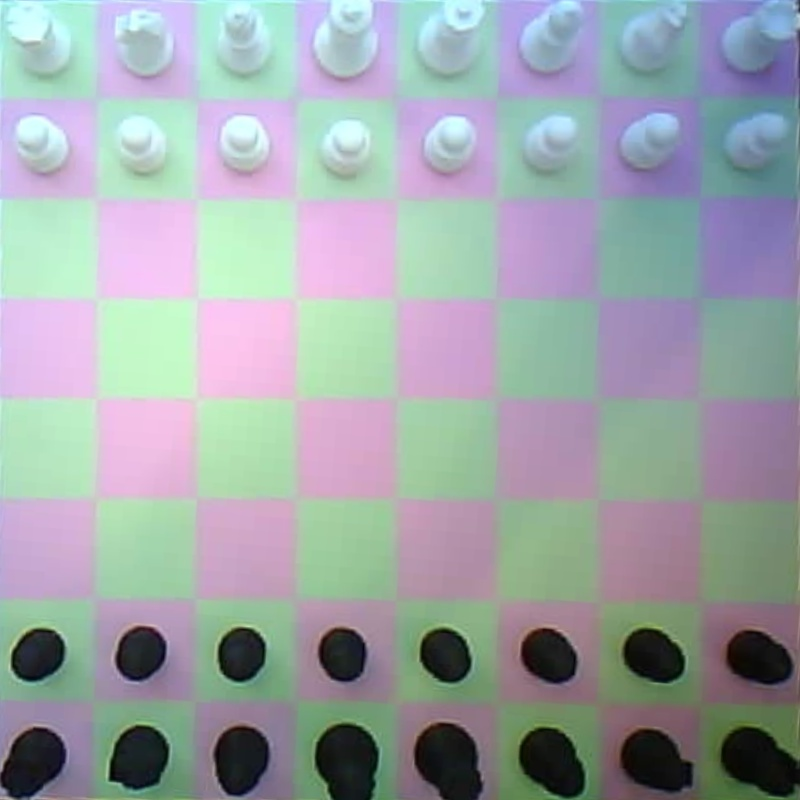
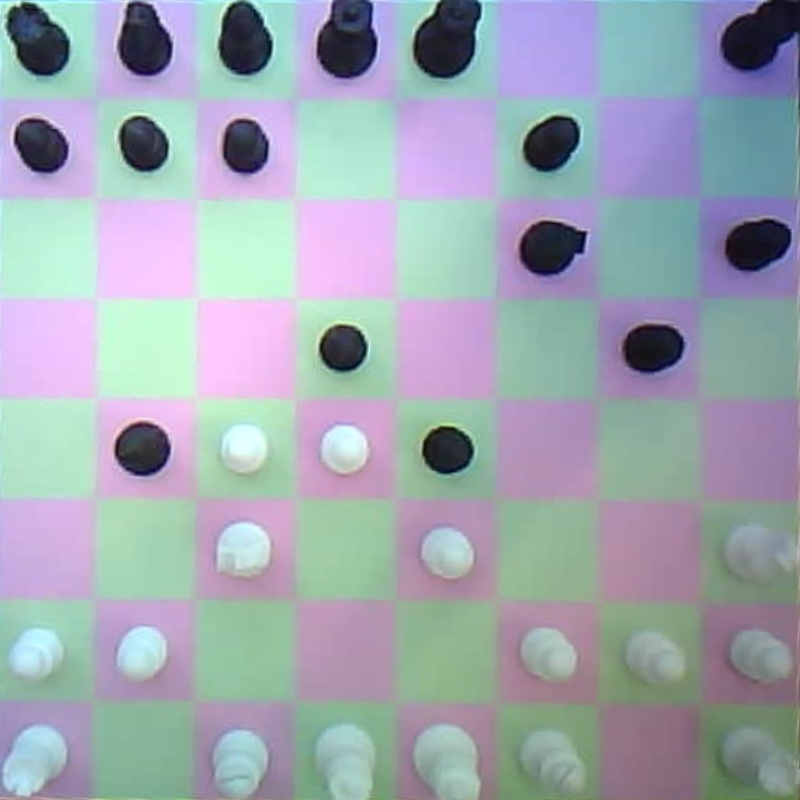
fixed the lcd black and white play

diff --git a/webapp/src/app/page.tsx b/webapp/src/app/page.tsx
@@ -46,6 +46,7 @@ import { Button } from "@/components/ui/button";
 import { Card, CardContent, CardHeader } from "@/components/ui/card";
 import { Badge } from "@/components/ui/badge";
 import { Slider } from "@/components/ui/slider";
+import { Tooltip, TooltipContent, TooltipProvider, TooltipTrigger } from "@/components/ui/tooltip";
 
 const DIFFICULTY_LABELS = ["Easy", "Medium", "Hard"] as const;
 
@@ -351,7 +352,56 @@ const RATING_STYLE: Record<PlayerMoveRating, { color: string; emoji: string }> =
   Blunder: { color: "oklch(0.65 0.22 25)", emoji: "🚨" },
 };
 
-function GameEvaluationCard({ evaluation }: { evaluation: GameEvaluation | null }) {
+// Small hover-explanation affordance. Wraps a metric so hovering it shows a
+// plain-language description of what the number means.
+function InfoTip({
+  text,
+  children,
+  side = "top",
+}: {
+  text: string;
+  children: React.ReactElement;
+  side?: "top" | "bottom" | "left" | "right";
+}) {
+  return (
+    <Tooltip>
+      <TooltipTrigger render={children} />
+      <TooltipContent side={side} className="max-w-xs font-jetbrains">{text}</TooltipContent>
+    </Tooltip>
+  );
+}
+
+// Reconstruct SAN move pairs from the UCI move list. We cannot use
+// game.history() because new Chess(fen) discards history on every poll —
+// instead we replay controllerMoves in a throwaway board (see improvement.md).
+function getHistoryRows(uciMoves: string[]): { num: number; w: string; b?: string }[] {
+  const chess = new Chess();
+  const rows: { num: number; w: string; b?: string }[] = [];
+  for (let i = 0; i < uciMoves.length; i++) {
+    const index = Math.floor(i / 2);
+    let san = uciMoves[i];
+    try {
+      const move = chess.move(uciMoves[i]);
+      san = move.san;
+    } catch {
+      // Fall back to the raw UCI string if it can't be parsed/played.
+    }
+    if (i % 2 === 0) {
+      rows.push({ num: index + 1, w: san });
+    } else if (rows[index]) {
+      rows[index].b = san;
+    }
+  }
+  return rows;
+}
+
+function GameEvaluationCard({
+  evaluation,
+  moves = [],
+}: {
+  evaluation: GameEvaluation | null;
+  moves?: string[];
+}) {
   // Map win % to a horizontal split between white (top of bar) and black.
   const winPct = evaluation?.win_percentage ?? 50;
   const whiteShare = Math.max(2, Math.min(98, winPct));
@@ -359,6 +409,7 @@ function GameEvaluationCard({ evaluation }: { evaluation: GameEvaluation | null 
   const ratingStyle = evaluation?.player_move_rating
     ? RATING_STYLE[evaluation.player_move_rating]
     : null;
+  const historyRows = useMemo(() => getHistoryRows(moves), [moves]);
 
   let positionLine = "Position is equal (0.0)";
   if (evaluation) {
@@ -377,52 +428,89 @@ function GameEvaluationCard({ evaluation }: { evaluation: GameEvaluation | null 
   return (
     <Card style={{ background: "var(--charm-card)", borderColor: "var(--charm-border)" }}>
       <CardHeader className="px-4 pt-4 pb-2">
-        <h2 className="font-jetbrains text-sm font-semibold" style={{ color: "var(--charm-text)" }}>Game Evaluation</h2>
+        <h2 className="font-jetbrains text-base font-semibold" style={{ color: "var(--charm-text)" }}>Game Evaluation</h2>
       </CardHeader>
-      <CardContent className="px-4 pb-4 space-y-3">
-        <div className="flex items-center gap-3">
-          {/* Vertical eval bar — white on top, black on bottom (Chess.com style). */}
-          <div
-            className="relative h-40 w-5 overflow-hidden rounded border"
-            style={{ borderColor: "var(--charm-border)" }}
-            aria-label="evaluation bar"
-          >
-            <div style={{ background: "var(--charm-board-light)", height: `${whiteShare}%` }} />
-            <div style={{ background: "oklch(0.18 0.01 250)", height: `${blackShare}%` }} />
-            <div className="pointer-events-none absolute inset-x-0" style={{ top: "50%", borderTop: "1px dashed oklch(0 0 0 / 0.35)" }} />
+      <TooltipProvider delay={150}>
+        <CardContent className="px-4 pb-4 space-y-4">
+          <div className="flex items-center gap-4">
+            {/* Vertical eval bar — white on top, black on bottom (Chess.com style). */}
+            <InfoTip
+              side="right"
+              text="Visual gauge of the position balance. Larger White share means White advantage; larger Black share means Black advantage."
+            >
+              <div
+                className="relative h-48 w-7 cursor-help overflow-hidden rounded border"
+                style={{ borderColor: "var(--charm-border)" }}
+                aria-label="evaluation bar"
+              >
+                <div style={{ background: "var(--charm-board-light)", height: `${whiteShare}%` }} />
+                <div style={{ background: "oklch(0.18 0.01 250)", height: `${blackShare}%` }} />
+                <div className="pointer-events-none absolute inset-x-0" style={{ top: "50%", borderTop: "1px dashed oklch(0 0 0 / 0.35)" }} />
+              </div>
+            </InfoTip>
+            <div className="flex-1 space-y-1.5">
+              <InfoTip text="Stockfish centipawn score. Positive numbers favor White, negative numbers favor Black. 'M' represents checkmate in X moves.">
+                <p className="w-fit cursor-help font-jetbrains text-4xl font-semibold" style={{ color: "var(--charm-text)" }}>
+                  {evaluation?.score ?? "0.0"}
+                </p>
+              </InfoTip>
+              <p className="font-jetbrains text-xs" style={{ color: "var(--charm-muted)" }}>{positionLine}</p>
+              <InfoTip text="The mathematical win probability for White based on current engine evaluation.">
+                <p className="w-fit cursor-help font-jetbrains text-xs" style={{ color: "var(--charm-muted)" }}>
+                  Win probability (white): <span style={{ color: "var(--charm-cyan)" }}>{winPct.toFixed(1)}%</span>
+                </p>
+              </InfoTip>
+            </div>
           </div>
-          <div className="flex-1 space-y-1">
-            <p className="font-jetbrains text-2xl font-semibold" style={{ color: "var(--charm-text)" }}>
-              {evaluation?.score ?? "0.0"}
-            </p>
-            <p className="font-jetbrains text-xs" style={{ color: "var(--charm-muted)" }}>{positionLine}</p>
-            <p className="font-jetbrains text-[11px]" style={{ color: "var(--charm-muted)" }}>
-              Win probability (white): <span style={{ color: "var(--charm-cyan)" }}>{winPct.toFixed(1)}%</span>
-            </p>
-          </div>
-        </div>
-        {evaluation?.player_move_rating && ratingStyle && (
-          <div
-            className="rounded-md border px-3 py-2 font-jetbrains text-xs flex items-center justify-between"
-            style={{ borderColor: ratingStyle.color, background: "transparent" }}
-          >
-            <span style={{ color: ratingStyle.color }}>
-              {ratingStyle.emoji} {evaluation.player_move_rating}
-              {evaluation.player_cp_loss != null && evaluation.player_cp_loss > 0 && (
-                <span style={{ color: "var(--charm-muted)" }}>
-                  {" "}
-                  · -{(evaluation.player_cp_loss / 100).toFixed(2)} pawns
+          {evaluation?.player_move_rating && ratingStyle && (
+            <div
+              className="rounded-md border px-3 py-2 font-jetbrains text-xs flex items-center justify-between"
+              style={{ borderColor: ratingStyle.color, background: "transparent" }}
+            >
+              <InfoTip text="Stockfish classification of the move quality, ranging from Excellent to Blunder.">
+                <span className="cursor-help" style={{ color: ratingStyle.color }}>
+                  {ratingStyle.emoji} {evaluation.player_move_rating}
                 </span>
+              </InfoTip>
+              {evaluation.player_cp_loss != null && evaluation.player_cp_loss > 0 && (
+                <InfoTip text="The reduction in evaluation advantage caused by the move. Measured in 1/100ths of a pawn. Lower is better.">
+                  <span className="cursor-help" style={{ color: "var(--charm-muted)" }}>
+                    -{(evaluation.player_cp_loss / 100).toFixed(2)} pawns
+                  </span>
+                </InfoTip>
               )}
-            </span>
-            {evaluation.best_move_suggestion && (
-              <span style={{ color: "var(--charm-muted)" }}>
-                best: <span style={{ color: "var(--charm-cyan)" }}>{evaluation.best_move_suggestion}</span>
-              </span>
-            )}
+              {evaluation.best_move_suggestion && (
+                <InfoTip text="The optimal continuation move recommended by the engine in the previous position.">
+                  <span className="cursor-help" style={{ color: "var(--charm-muted)" }}>
+                    best: <span style={{ color: "var(--charm-cyan)" }}>{evaluation.best_move_suggestion}</span>
+                  </span>
+                </InfoTip>
+              )}
+            </div>
+          )}
+          {/* Black & white move history */}
+          <div>
+            <p className="mb-1 font-jetbrains text-[10px] uppercase tracking-wide" style={{ color: "var(--charm-muted)" }}>Move history</p>
+            <div className="max-h-40 overflow-auto rounded-md border" style={{ borderColor: "var(--charm-border)" }}>
+              {historyRows.length === 0 ? (
+                <p className="px-3 py-2 font-jetbrains text-xs" style={{ color: "var(--charm-muted)" }}>No moves yet.</p>
+              ) : (
+                <table className="w-full font-jetbrains text-xs">
+                  <tbody>
+                    {historyRows.map((row, i) => (
+                      <tr key={row.num} style={{ background: i % 2 === 0 ? "transparent" : "oklch(from var(--charm-muted) l c h / 0.06)" }}>
+                        <td className="w-8 px-2 py-1 text-right" style={{ color: "var(--charm-muted)" }}>{row.num}.</td>
+                        <td className="px-2 py-1 font-semibold" style={{ color: "var(--charm-text)" }}>{row.w}</td>
+                        <td className="px-2 py-1" style={{ color: "var(--charm-muted)" }}>{row.b ?? ""}</td>
+                      </tr>
+                    ))}
+                  </tbody>
+                </table>
+              )}
+            </div>
           </div>
-        )}
-      </CardContent>
+        </CardContent>
+      </TooltipProvider>
     </Card>
   );
 }
@@ -533,6 +621,10 @@ export default function Dashboard() {
   const [selectedSquare, setSelectedSquare] = useState<string | null>(null);
   const [legalTargets, setLegalTargets] = useState<Set<string>>(new Set());
   const [evaluation, setEvaluation] = useState<GameEvaluation | null>(null);
+  // Full UCI move history for the Game Evaluation panel's black/white table.
+  // Fed from the LCD controller poll AND webapp-driven session responses so it
+  // populates in both play modes.
+  const [moveHistory, setMoveHistory] = useState<string[]>([]);
   const [manualBusy, setManualBusy] = useState(false);
   const [robotArmPlay, setRobotArmPlay] = useState(false);
   const [pendingPromotion, setPendingPromotion] = useState<{ from: string; to: string } | null>(null);
@@ -578,6 +670,7 @@ export default function Dashboard() {
         if (stopped) return;
         setControllerPhase(gs.phase);
         setControllerMoves(gs.moves ?? []);
+        setMoveHistory(gs.moves ?? []);
         setControllerPlayerColor(gs.player_color);
         if (gs.fen) {
           try {
@@ -763,6 +856,7 @@ export default function Dashboard() {
       ));
       setArmCalibrated(true);
       setGameSessionStarted(false);
+      setMoveHistory([]);
       setTurnState("human_turn");
       // Tell the LCD the arm finished homing so it returns to MENU (mode 1).
       void api.lcdSetMode(1).catch(() => undefined);
@@ -812,6 +906,7 @@ export default function Dashboard() {
       }
     }
     if (session.evaluation) setEvaluation(session.evaluation);
+    if (session.moves) setMoveHistory(session.moves);
     const lastUci = session.robot_move?.move_uci ?? session.human_move?.move_uci ?? null;
     if (lastUci) setLastMove(lastUci);
     if (session.human_move?.move_uci) {
@@ -974,6 +1069,7 @@ export default function Dashboard() {
           return;
         }
         if (session.fen) setGame(new Chess(session.fen));
+        if (session.moves) setMoveHistory(session.moves);
         setGameSessionStarted(true);
         setMoveLog((current) => [
           ...current,
@@ -1018,6 +1114,7 @@ export default function Dashboard() {
       }
 
       if (response.fen) setGame(new Chess(response.fen));
+      if (response.moves) setMoveHistory(response.moves);
       if (response.human_move?.move_uci) {
         setMoveLog((current) => [...current, `You: ${response.human_move?.san ?? response.human_move?.move_uci}`]);
         setLastMove(response.human_move.move_uci);
@@ -1245,7 +1342,9 @@ export default function Dashboard() {
       )}
 
       <div className="grid gap-5 xl:grid-cols-[minmax(0,1.35fr)_minmax(330px,0.65fr)]">
-        {/* SCARA Arm card — unchanged */}
+        {/* Column 1: Game Evaluation (wide, top) + SCARA Arm */}
+        <div className="flex flex-col gap-5">
+        <GameEvaluationCard evaluation={evaluation} moves={moveHistory} />
         <Card style={{ background: "var(--charm-card)", borderColor: "var(--charm-border)" }}>
           <CardHeader className="px-4 pt-4 pb-2 flex-row items-center justify-between">
             <h2 className="font-jetbrains text-sm font-semibold" style={{ color: "var(--charm-text)" }}>SCARA Arm</h2>
@@ -1279,13 +1378,15 @@ export default function Dashboard() {
               <BoardPiecesSvg game={game} visible={scaraPiecesVisible} opacity={scaraPiecesOpacity} />
               <ChessComCoordinates svgBoardUnits />
               <circle cx={ARM_BASE.x} cy={ARM_BASE.y} r="0.18" fill="oklch(0.65 0.22 25)" opacity="0.85" />
-              <RobotArmOverlay
-                embed move={robotMove}
-                mode={turnState === "arm_calibrating" ? "calibrating" : robotMove ? "playing" : "idle"}
-                onDone={finishRobotMove} debugTarget={armDebug ? armDebugTarget : null}
-                idleTarget={armCalibrated ? armIdleTarget : null}
-                opacity={armOpacity} expectedOpacity={expectedOpacity} onAnglesChange={setArmAngles}
-              />
+              {armView === "Arm" && (
+                <RobotArmOverlay
+                  embed move={robotMove}
+                  mode={turnState === "arm_calibrating" ? "calibrating" : robotMove ? "playing" : "idle"}
+                  onDone={finishRobotMove} debugTarget={armDebug ? armDebugTarget : null}
+                  idleTarget={armCalibrated ? armIdleTarget : null}
+                  opacity={armOpacity} expectedOpacity={expectedOpacity} onAnglesChange={setArmAngles}
+                />
+              )}
             </svg>
             <details className="rounded-md border border-border p-3">
               <summary className="cursor-pointer font-jetbrains text-xs font-semibold" style={{ color: "var(--charm-text)" }}>Arm debug</summary>
@@ -1347,6 +1448,7 @@ export default function Dashboard() {
             </div>
           </CardContent>
         </Card>
+        </div>
 
         <div className="flex flex-col gap-5">
           {/* CV Mode card */}
@@ -1535,9 +1637,6 @@ export default function Dashboard() {
               </div>
             </CardContent>
           </Card>
-
-          {/* Game Evaluation card */}
-          <GameEvaluationCard evaluation={evaluation} />
         </div>
       </div>
 

diff --git a/arduino_code/src/hardware/src/uiState.cpp b/arduino_code/src/hardware/src/uiState.cpp
@@ -297,6 +297,14 @@ String UIState::getLine1() const {
             return currentTurn == WHITE ? "White Turn" : "Black Turn";
 
         case ERROR:
+            // Move-rating flashes reuse ERROR mode to show the evaluation term
+            // on line 2. Relabel line 1 so a legal, evaluated move doesn't read
+            // as "Illegal move !".
+            if (errorMessage == "EXCELLENT!" || errorMessage == "GOOD" ||
+                errorMessage == "INACCURACY" || errorMessage == "MISTAKE!" ||
+                errorMessage == "BLUNDER!") {
+                return "Stockfish Eval:";
+            }
             return errorMessage.length() > 0 ? "Illegal move !" : "Set up ERROR";
 
         case GAME_OVER:

diff --git a/python_code/src/charm/game/game_controller.py b/python_code/src/charm/game/game_controller.py
@@ -516,6 +516,10 @@ class GameController:
             try:
                 self.ui_link.error_msg(label)
                 time.sleep(2.0)
+                # error_msg puts the LCD in ERROR mode (line 1 = "Illegal move !").
+                # The move was legal, so restore GAME mode (6) to resume normal
+                # turn-status display instead of leaving the box stuck on ERROR.
+                self.ui_link.set_mode(6)
             except Exception as exc:
                 print(f"[GAME] LCD rating flash failed: {exc!r}", flush=True)
 
